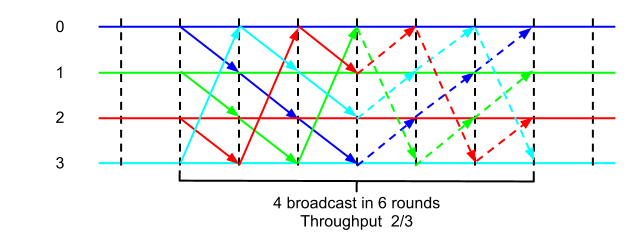
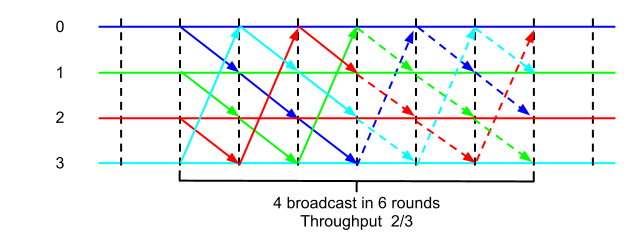
Algo updated

diff --git a/report/report.tex b/report/report.tex
@@ -599,9 +599,9 @@ This protocol is based on the pipeline broadcast, but to ensure the total order
 property we add some ordered queue and a mechanism of acknowledgment.
 
 When a node receive a message $m$ if he is the last node of the pipeline, he can
-be sure that no process will be able to send a message \texit{older} than $m$ so
+be sure that no process will be able to send a message \textit{older} than $m$ so
 he can deliver $m$ and all the messages older than $m$ in his pending queue. As
-soon as a node deliver one or many message, he will send an ack for the elder
+soon as a node deliver one or many message, he will send an ack for the oldest
 message that he as delivered (acknowledgments are cumulative).
 
 When a message receive an acknowledgment, he can do the same thing as the node at
@@ -610,29 +610,30 @@ the ack in case of an other node still have a message in it's queue.
 acknowledgments are stopped when they have been through the whole pipeline.
 
 It's clear that as a message have to go through two pipelines, the latency will
-be of the order of $2N$ (where $N$ is the number of process). But we use
-reversed pipeline for the acknowledgement, the can be sent in parallel and it
-takes also about $2N$ rounds to broadcast $N$ different nodes, so we are able
-to achieve a constant throughput of $\frac{1}{2}$.
+be of the order of $2N$ (where $N$ is the number of process). If we send $N$
+broadcast at the same times on $N$ nodes, after $N-1$ turn, every node will have
+all the message in their queue, but only one will be able to deliver them all.
+This node will send an ack for the oldest message and with $N-1$ other rounds,
+every process will be able to deliver it's remaining messages. So we will be
+able to achieve a throughput of $\frac{N}{2(N-1)}$ so our throughput have a
+lower bound of $\frac{1}{2}$.
+
 
 \subsection{Algorithm}
 \begin{algorithm}[H]
     \centering
     \begin{algorithmic}[5]
         \Data
-        \State unsigned int : clk
+        \State int : clk
         \Comment{A logical clock}
-        \State unsigned int : next
+        \State int : next
         \Comment{the id of the next process in the pipeline}
-        \State unsigned int : prec
-        \Comment{the id of the previous process in the pipeline}
         \State Pending : OrderedList
         \Comment{A list ordered by clock then id}
         \EndData
         \Init
         \State clk$\gets$0
         \State next$\gets$(Id()+1)\%NProcess
-        \State prec$\gets$(Id()-1)\%NProcess
         \State Pending$\gets$EmptyQueue
         \EndInit
         \Event $< tob,Broadcast\ |\ m> $
@@ -640,7 +641,7 @@ to achieve a constant throughput of $\frac{1}{2}$.
         \State clk++;
         \If{next$\ne$Id()}
         \Comment{We are not the only node of the system}
-        \State Pending$\rightarrow$add($<m,Id(), clk, false>$) 
+        \State Pending$\rightarrow$add($<m,Id(), clk>$) 
         \Comment{The message is added\\}
         \Comment{to the list the false boolean\\}
         \Comment{indicate that we have to wait for one ack}
@@ -650,25 +651,26 @@ to achieve a constant throughput of $\frac{1}{2}$.
         \State{Deliver(Id(),m)}
         \EndIf
         \EndEvent
-        \Event $<Receive\ | <m,sender, mclk>>$
+        \Event $<Receive\ | <m,sender, origin, mclk>>$
         \State clk$\gets$MAX(clk, mclk)+1
         \If{next=sender}
-        \State Pending$\rightarrow$add($<m,sender,mclk,true>$)
+        \State Pending$\rightarrow$add($<m,sender,origin,mclk>$)
         \Comment{We are at the end\\}
-        \Comment{of the pipeline}
-        \State Send(prec,$<ack,sender,mclk>$)
-        \Comment{so we start the\\}
-        \Comment{broadcast of acks}
-        \If{Pending$\rightarrow$IsHead(sender,mclk)}
+        \Comment{of the pipeline\\}
+        \State tmp$\gets$Pending$\rightarrow$Head()
+        \While{isOlderOrEqual(tmp,$<m,sender,origin,mclk>$)}
+        \Comment{we deliver\\}
+        \Comment{as much message as possible\\}
+        \State Deliver (tmp$\rightarrow$sender,tmp$\rightarrow$m)
         \State Pending$\rightarrow$RemoveHead()
-        \Comment{m is the first message of\\}
-        \Comment{the queue, we can deliver it}
-        \State Deliver(sender,m)
-        \Comment{And deliver it}
+        \EndWhile
+        \If{tmp$\rightarrow$origin$\ne$Id()}
+        \State SendAck(next,tmp);
+        \Comment{Acknowledge all the messages delivered}  
         \EndIf
         \Else
-        \State Pending$\rightarrow$add($<m,sender,mclk,false>$)
-        \State Send(next,$<m,sender,mclk>$)
+        \State Pending$\rightarrow$add($<m,sender,origin,mclk>$)
+        \State Send(next,$<m,Id(),origin,mclk>$)
         \Comment{We forward m\\} 
         \Comment{through the pipeline}
         \EndIf
@@ -681,33 +683,23 @@ to achieve a constant throughput of $\frac{1}{2}$.
     \centering
     \begin{algorithmic}[5]
         \algrestore{myalg}
-
-        \Event $<Receive\  | <ack,sender, mclk>>$
-        \State clk$\gets$ Max(clk,mlck)+1
-        \If{sender$\neq$Id()}
-        \Comment{We have to forward the ack}
-        \State Send(prec,$<ack,sender,mclk>$
-        \EndIf
-        \If{Pending$\rightarrow$IsHead(sender,mclk)}
-        \Comment{m is the head\\}
-        \Comment{we can deliver it}
-        \State m$\gets$(Pending$\rightarrow$RemoveHead())
-        \State Deliver(sender,m)
-        \State $<m,sender,mclk,b>\gets$Pending$\rightarrow$getHead()
-        \While{b}
-        \Comment{While we have receive an ack for\\}
-        \Comment{the message at the head of the queue\\}
-        \Comment{we can deliver it}
+        \Event $<Receive\  | <ack,sender,origin, mclk>>$
+        \State tmp$\gets$Pending$\rightarrow$Head()
+        \While{isOlderOrEqual(tmp,$<m,sender,mclk>$)}
+        \Comment{we deliver\\}
+        \Comment{as much message as possible\\}
+        \State Deliver (tmp$\rightarrow$sender,tmp$\rightarrow$m)
         \State Pending$\rightarrow$RemoveHead()
-        \State Deliver(sender,m)
-        \State $<m,sender,mclk,b>\gets$(Pending$\rightarrow$getHead())
         \EndWhile
+        \If{tmp$\ne$nil }
+        \If{tmp$\rightarrow$origin$\ne$Id()}
+        \State SendAck(next,tmp);
+        \Comment{Acknowledge all the messages delivered}  
+        \EndIf
         \Else
-        \Comment{m isn't the head we mark m as acknowledged\\}
-        \Comment{but deliver it until m is the head\\}
-        \Comment{of the pending queue}
-        \State Pending$\rightarrow$Remove($<m,sender,mclk,false>$)
-        \State Pending$\rightarrow$Add($<m,sender,mclk,true>$)
+        \If{isEmpty(Pending) $\And$ ack$\rightarrow$origin$\ne$Id()}
+        \State Send(next,$<ack,Id(),origin,mclk>$)
+        \EndIf
         \EndIf
         \EndEvent
     \end{algorithmic}
